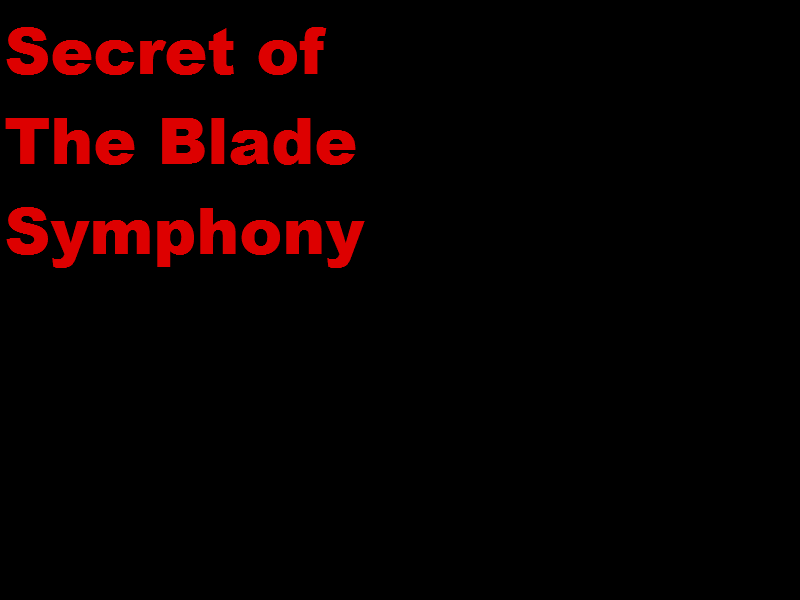
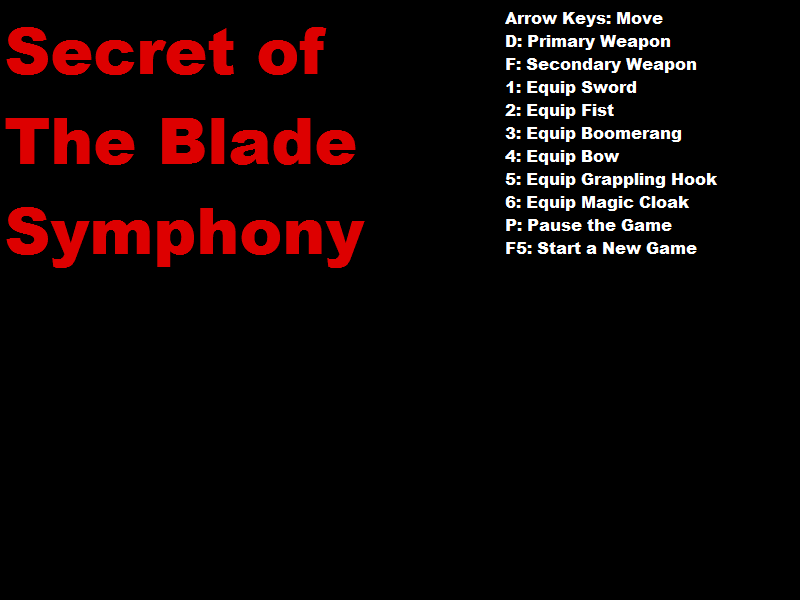
Added inventory (persistent) and instructions, keys are rebound.

Changed region(s): [[0.625, 0.0, 0.9062, 0.45]]

diff --git a/lib/game/entities/player.js b/lib/game/entities/player.js
@@ -31,6 +31,9 @@ EntityPlayer = ig.Entity.extend({
 		this.keyCount = 0;
 		this.coinCount = 0;
 
+		this.primary = 'sword';
+		this.seconadry = 'boomerang';
+
 		this.maxVel.x = 200;
 		this.maxVel.y = 200;
 		this.maxHealth = 1000;
@@ -56,6 +59,7 @@ EntityPlayer = ig.Entity.extend({
 		this.globalCooldown = new ig.Timer(0);
 		this.attackCooldown = new ig.Timer(0);
 		this.moveCooldown = new ig.Timer(0);
+		this.equipCooldown = new ig.Timer(0);
 	},
 
 	setItemLevels: function() {
@@ -108,6 +112,7 @@ EntityPlayer = ig.Entity.extend({
 			if(this.state == this.States.fullcontrol) {
 				this.handleMovement();
 				this.handleWeaponUsage();
+				this.handleWeaponEquiping();
 			}
 			else if(this.state == this.States.grappling) {
 				this.handleGrappling();
@@ -145,6 +150,7 @@ EntityPlayer = ig.Entity.extend({
 		this.attackCooldown.pause();
 		this.shieldedTimer.pause();
 		this.moveCooldown.pause();
+		this.equipCooldown.pause();
 	},
 
 	unpauseTimers: function() {
@@ -153,6 +159,7 @@ EntityPlayer = ig.Entity.extend({
 		this.attackCooldown.unpause();
 		this.shieldedTimer.unpause();
 		this.moveCooldown.unpause();
+		this.equipCooldown.unpause();
 	},
 
 	getKeyCount: function() {
@@ -209,6 +216,41 @@ EntityPlayer = ig.Entity.extend({
 		}
 	},
 
+	handleWeaponEquiping: function () {
+		this.handlePrimaryEquiping();
+		this.handleSecondaryEquiping();
+	},
+
+	handlePrimaryEquiping: function() {
+		if (ig.input.state('sword') && this.equipCooldown.delta() > 0) {
+			this.primary = 'sword';
+			this.equipCooldown.set(.5);
+		}
+		else if (ig.input.state('fist') && this.equipCooldown.delta() > 0) {
+			this.primary = 'fist';
+			this.equipCooldown.set(.5);
+		}
+	},
+
+	handleSecondaryEquiping: function() {
+		if (ig.input.state('boomerang') && this.equipCooldown.delta() > 0) {
+			this.secondary = 'boomerang';
+			this.equipCooldown.set(.5);
+		}
+		else if (ig.input.state('bow') && this.equipCooldown.delta() > 0) {
+			this.secondary = 'bow';
+			this.equipCooldown.set(.5);
+		}
+		else if (ig.input.state('grapplinghook') && this.equipCooldown.delta() > 0) {
+			this.secondary = 'grapplinghook';
+			this.equipCooldown.set(.5);
+		}
+		else if (ig.input.state('magiccloak') && this.equipCooldown.delta() > 0) {
+			this.secondary = 'magiccloak';
+			this.equipCooldown.set(.5);
+		}
+	},
+
 	handleWeaponUsage: function() {
 		this.handleMagiccloakUsage();
 		this.handleBoomerangUsage();
@@ -225,7 +267,7 @@ EntityPlayer = ig.Entity.extend({
 	},
 
 	handleBowUsage: function() {
-		if (ig.input.state('bow') && this.globalCooldown.delta() > 0) {
+		if (this.secondary == 'bow' && ig.input.state('secondary') && this.globalCooldown.delta() > 0) {
 			if(this.currentAnim == this.anims.right || 
 				this.currentAnim == this.anims.idleRight) {
 				ig.game.spawnEntity(EntityPlayerarrow, this.pos.x+30, this.pos.y+3, 
@@ -254,7 +296,7 @@ EntityPlayer = ig.Entity.extend({
 			this.setAnimations();
 			this.currentAnim = this.anims.idle;
 		}
-		if (ig.input.state('magiccloak') && this.globalCooldown.delta() > 0) {
+		if (this.secondary == 'magiccloak' && ig.input.state('secondary') && this.globalCooldown.delta() > 0) {
 			this.globalCooldown.set(10);
 			this.shielded = true;
 			this.shieldedTimer.set(this.magiccloakLevel + 5);
@@ -265,7 +307,7 @@ EntityPlayer = ig.Entity.extend({
 	},
 
 	handleBoomerangThrowing: function() {
-		if (ig.input.state('boomerang') && this.globalCooldown.delta() > 0) {
+		if (this.secondary == 'boomerang' && ig.input.state('secondary') && this.globalCooldown.delta() > 0) {
 			if(this.currentAnim == this.anims.right || 
 				this.currentAnim == this.anims.idleRight) {
 				ig.game.spawnEntity(EntityBoomerang, this.pos.x+30, this.pos.y+3, 
@@ -288,7 +330,7 @@ EntityPlayer = ig.Entity.extend({
 	},
 
 	handleGrapplinghookUsage: function() {
-		if (ig.input.state('grapplinghook') && this.globalCooldown.delta() > 0) {
+		if (this.secondary == 'grapplinghook' && ig.input.state('secondary') && this.globalCooldown.delta() > 0) {
 			if(this.currentAnim == this.anims.right || 
 				this.currentAnim == this.anims.idleRight) {
 				ig.game.spawnEntity(EntityGrapplinghook, this.pos.x, this.pos.y, 
@@ -336,7 +378,7 @@ EntityPlayer = ig.Entity.extend({
 	},
 
 	handleSwordAttacking: function() {
-		if (ig.input.state('sword') && this.attackCooldown.delta() > 0) {
+		if (this.primary == 'sword' && ig.input.pressed('primary') && this.attackCooldown.delta() > 0) {
 			if(this.currentAnim == this.anims.up ||
 				this.currentAnim == this.anims.idleUp) {
 				this.currentAnim = this.anims.sword1AttackUp;
@@ -368,7 +410,7 @@ EntityPlayer = ig.Entity.extend({
 	},
 
 	handleFistAttacking: function() {
-		if (ig.input.state('fist') && this.attackCooldown.delta() > 0) {
+		if (this.primary == 'fist' && ig.input.pressed('primary') && this.attackCooldown.delta() > 0) {
 			if(this.currentAnim == this.anims.up ||
 				this.currentAnim == this.anims.idleUp) {
 				this.currentAnim = this.anims.fist1AttackUp;
@@ -467,6 +509,26 @@ EntityPlayer = ig.Entity.extend({
 
 			var playerCoinCountString = "Coins: " + this.coinCount;
 			this.font.draw(playerCoinCountString, 10, 56, ig.Font.ALIGN.LEFT);
+
+			if (this.primary == 'sword') {
+				this.font.draw('Sword Equipped', 10, 79, ig.Font.ALIGN.LEFT);
+			}
+			else if (this.primary == 'fist') {
+				this.font.draw('Fist Equipped', 10, 79, ig.Font.ALIGN.LEFT);
+			}
+
+			if (this.secondary == 'boomerang') {
+				this.font.draw('Boomerang Equipped', 10, 102, ig.Font.ALIGN.LEFT);
+			}
+			else if (this.secondary == 'bow') {
+				this.font.draw('Bow Equipped', 10, 102, ig.Font.ALIGN.LEFT);
+			}
+			else if (this.secondary == 'grapplinghook') {
+				this.font.draw('Grappling Hook Equipped', 10, 102, ig.Font.ALIGN.LEFT);
+			}
+			else if (this.secondary == 'magiccloak') {
+				this.font.draw('Magic Cloak Equipped', 10, 102, ig.Font.ALIGN.LEFT);
+			}
 		}
 	},
 
@@ -520,13 +582,29 @@ EntityPlayer = ig.Entity.extend({
 		}
 	},
 
-
 	getKeyCount: function() {
 		return this.keyCount;
 	},
 
 	setKeyCount: function(myKeyCount) {
 		this.keyCount = myKeyCount;
+	},
+
+	//Getter and setters for primary and secondary equipment selection
+	getPrimary: function() {
+		return this.primary;
+	},
+
+	setPrimary: function(myPrimary) {
+		this.primary = myPrimary;
+	},
+
+	getSecondary: function() {
+		return this.secondary;
+	},
+
+	setSecondary: function(mySecondary) {
+		this.secondary = mySecondary;
 	},
 
 	//Getters and setters for weapons/equipment levels

diff --git a/lib/game/main.js b/lib/game/main.js
@@ -94,14 +94,19 @@ MyGame = ig.Game.extend({
 		ig.input.bind( ig.KEY.LEFT_ARROW, 'left');
 		ig.input.bind( ig.KEY.RIGHT_ARROW, 'right');
 
-		// Temporary input to use weapons
-		ig.input.bind( ig.KEY.B, 'boomerang');
-		ig.input.bind( ig.KEY.F, 'fist');
 		ig.input.bind( ig.KEY.P, 'pause');
-		ig.input.bind( ig.KEY.S, 'sword');
-		ig.input.bind( ig.KEY.G, 'grapplinghook');
-		ig.input.bind( ig.KEY.V, 'magiccloak');
-		ig.input.bind( ig.KEY.E, 'bow');
+
+		ig.input.bind( ig.KEY._1, 'sword');
+		ig.input.bind( ig.KEY._2, 'fist');
+		ig.input.bind( ig.KEY._3, 'boomerang');
+		ig.input.bind( ig.KEY._4, 'bow');
+		ig.input.bind( ig.KEY._5, 'grapplinghook');
+		ig.input.bind( ig.KEY._6, 'magiccloak');
+		
+		ig.input.bind( ig.KEY.D, 'primary');
+		ig.input.bind( ig.KEY.F, 'secondary');
+		ig.input.bind( ig.KEY.G, 'potion');
+		ig.input.bind( ig.KEY.B, 'portal');
 	},
 
 	initializeStates: function() {
@@ -226,7 +231,7 @@ StartScreen = ig.Game.extend({
 		this.background.draw(0,0);
 		var x = ig.system.width/2,
 		y = ig.system.height - 20;
-		this.instructText.draw('Press Spacebar to Begin Game NOW!', x+40, y, ig.Font.ALIGN.CENTER);
+		this.instructText.draw('Press Spacebar to Begin', x+40, y-70, ig.Font.ALIGN.CENTER);
 	}
 });
 

diff --git a/lib/game/director/player-controller.js b/lib/game/director/player-controller.js
@@ -19,6 +19,8 @@ ig.PlayerController = ig.Class.extend({
 	score: 0,
 	coinCount: 0,
 	currentLife: 1000,
+	primary: 'sword',
+	secondary: 'boomerang',
 	pos: {x: 200, y: 200},
 	
 	playerCharacter: null,
@@ -41,6 +43,8 @@ ig.PlayerController = ig.Class.extend({
 		this.playerCharacter.setPosition(this.pos.x, this.pos.y);
 		this.playerCharacter.setKeyCount(this.keyCount);
 		this.playerCharacter.setCoinCount(this.coinCount);
+		this.playerCharacter.setPrimary(this.primary);
+		this.playerCharacter.setSecondary(this.secondary);
 	},
 
 	storeSettings: function() {
@@ -54,6 +58,8 @@ ig.PlayerController = ig.Class.extend({
 		this.magiccloakLevel = this.playerCharacter.getMagiccloakLevel();
 		this.keyCount = this.playerCharacter.getKeyCount();
 		this.coinCount = this.playerCharacter.getCoinCount();
+		this.primary = this.playerCharacter.getPrimary();
+		this.secondary = this.playerCharacter.getSecondary();
 	},
 
 	increaseScore: function(amount) {
